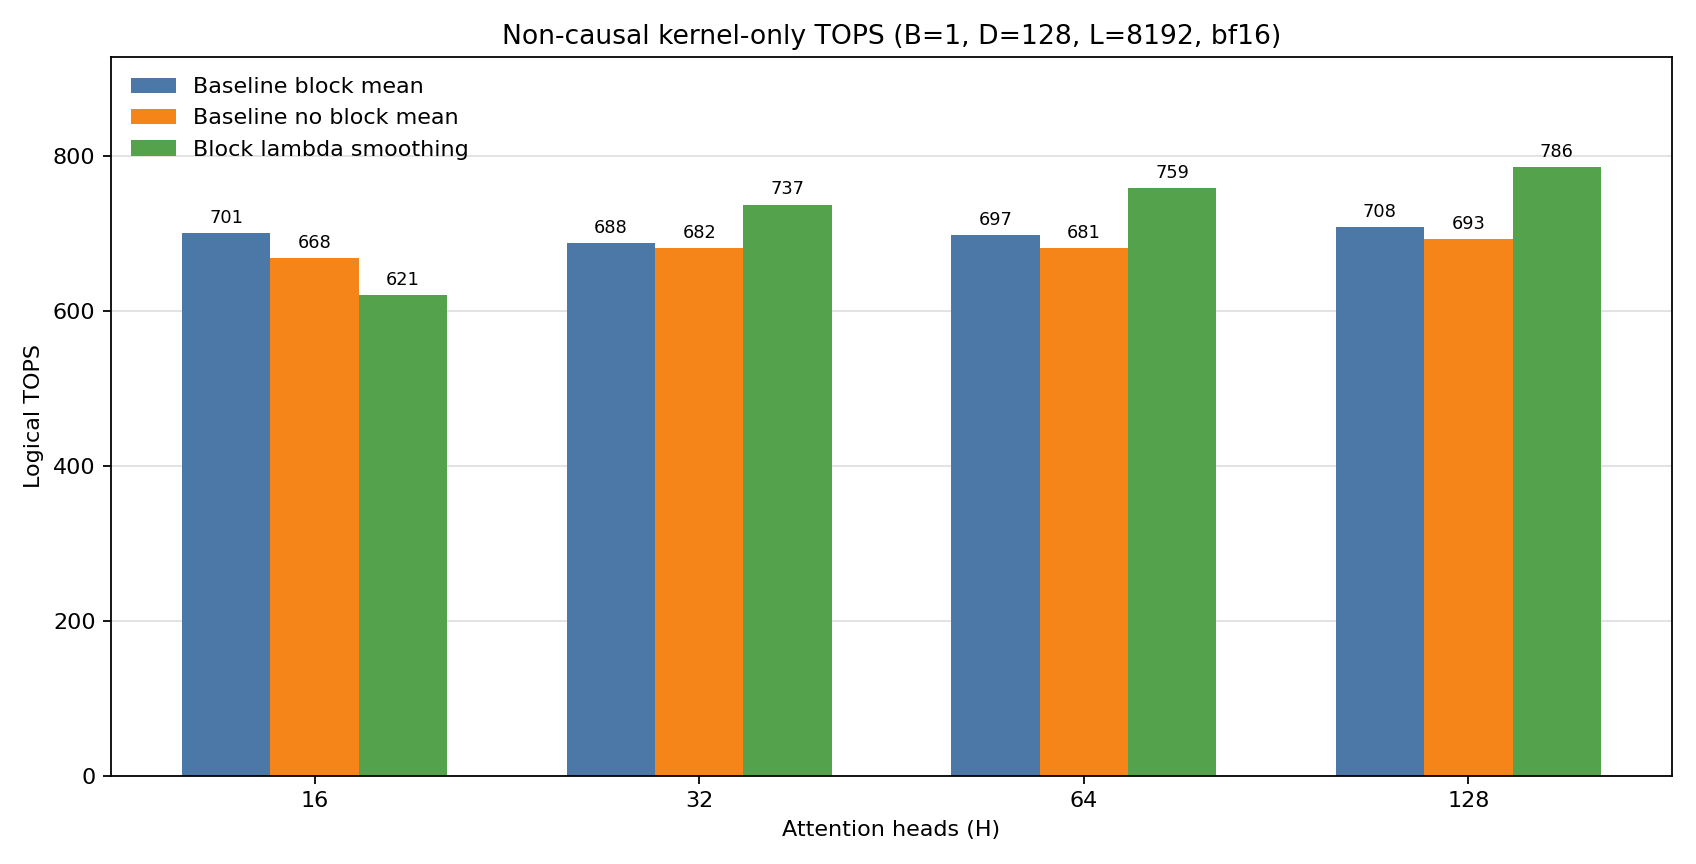
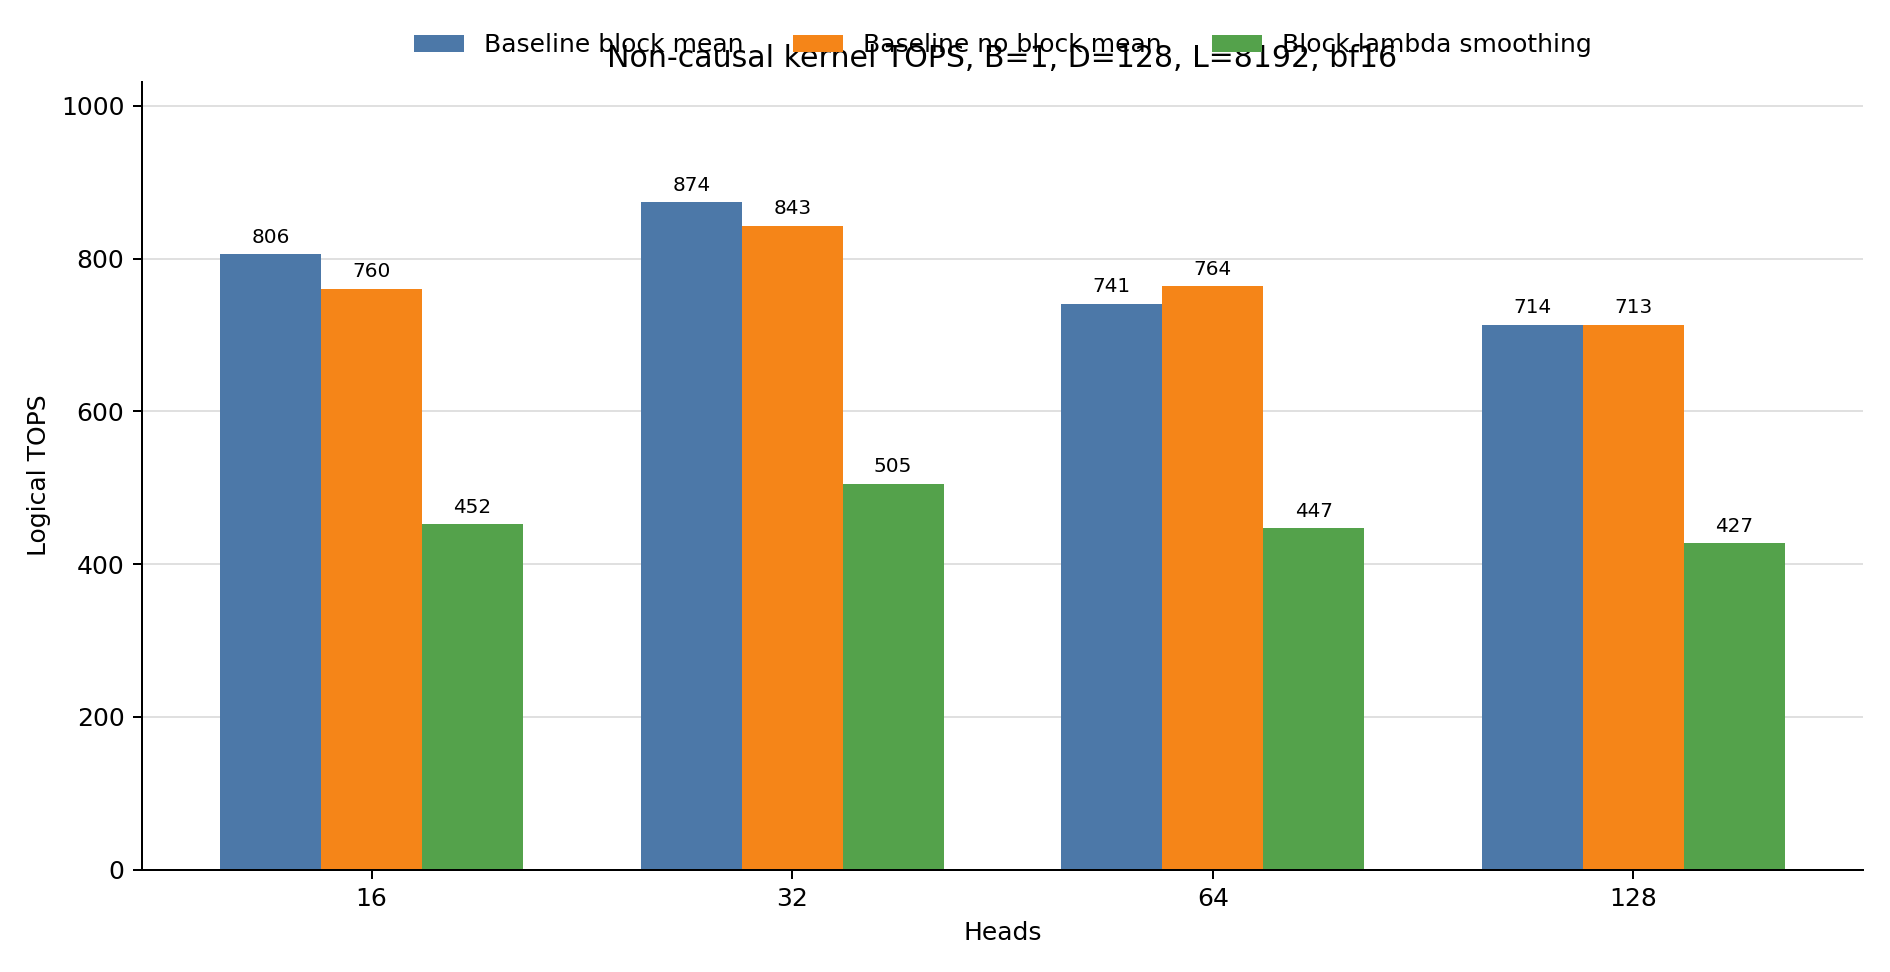
Refresh non-causal TOPS chart

diff --git a/sageattention3_blackwell/sageattn3/blackwell/launch.h b/sageattention3_blackwell/sageattn3/blackwell/launch.h
@@ -118,10 +118,8 @@ void run_flash_fwd(Flash_fwd_params &params, cudaStream_t stream) {
 
 template<typename T, int Headdim, typename O = cutlass::bfloat16_t>
 void run_mha_fwd_(Flash_fwd_params &params, cudaStream_t stream) {
-    constexpr bool Is_causal = true;
-    constexpr bool per_block = false;
-    //BOOL_SWITCH(params.is_causal, Is_causal, [&] {
-    //    BOOL_SWITCH(params.per_block_mean, per_block, [&] {
+    BOOL_SWITCH(params.is_causal, Is_causal, [&] {
+        BOOL_SWITCH(params.per_block_mean, per_block, [&] {
             if constexpr (Headdim == 64 || Headdim == 128) {
                 run_flash_fwd<
                     Flash_fwd_kernel_traits<Headdim, 128, 128, 3, 1, per_block, T, O>,
@@ -130,6 +128,6 @@ void run_mha_fwd_(Flash_fwd_params &params, cudaStream_t stream) {
             } else {
                 static_assert(Headdim == 64 || Headdim == 128, "Unsupported Headdim");
             }
-    //    });
-    //});
+        });
+    });
 }

diff --git a/sageattention3_blackwell/tests/test_mean_residual_qk.py b/sageattention3_blackwell/tests/test_mean_residual_qk.py
@@ -128,8 +128,9 @@ def test_sageattn3_blackwell_specialized_constant_value_tile():
     assert out.max().item() <= 1.05
 
 
[email redacted]("is_causal", [False, True])
 @pytest.mark.skipif(not torch.cuda.is_available(), reason="CUDA is required for the mean/residual kernel")
-def test_sageattn3_blackwell_specialized_random_smoke_matches_sdpa_loose():
+def test_sageattn3_blackwell_specialized_random_smoke_matches_sdpa_loose(is_causal):
     _skip_unless_specialized_blackwell_kernel()
 
     torch.manual_seed(6)
@@ -137,8 +138,8 @@ def test_sageattn3_blackwell_specialized_random_smoke_matches_sdpa_loose():
     k = torch.randn_like(q)
     v = torch.randn_like(q)
 
-    out = mr.sageattn3_blackwell(q, k, v, is_causal=True)
-    expected = torch.nn.functional.scaled_dot_product_attention(q, k, v, is_causal=True)
+    out = mr.sageattn3_blackwell(q, k, v, is_causal=is_causal)
+    expected = torch.nn.functional.scaled_dot_product_attention(q, k, v, is_causal=is_causal)
     torch.cuda.synchronize()
     diff = (out.float() - expected.float()).abs()
 